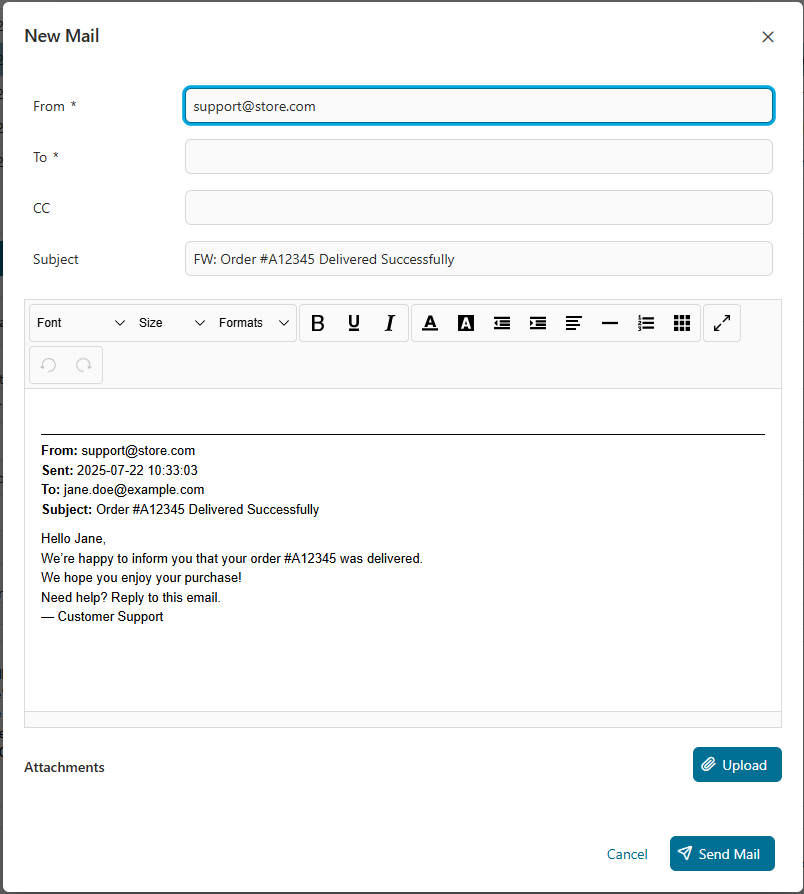
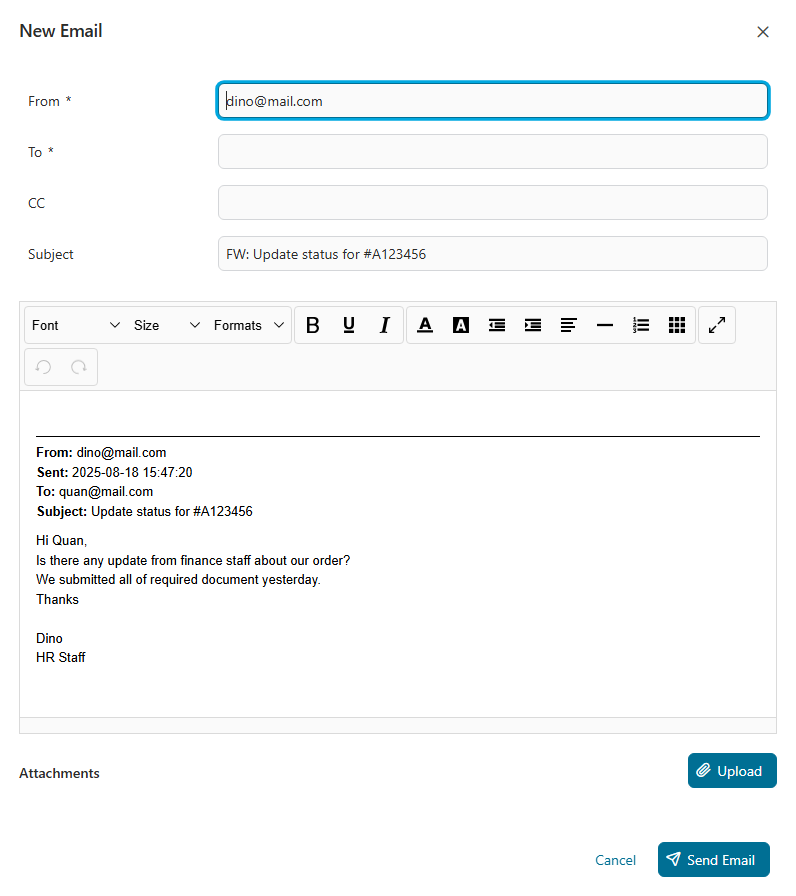
MARP-2694 Review readme

diff --git a/mail-connector-product/README_DE.md b/mail-connector-product/README_DE.md
@@ -1,14 +1,88 @@
-<!--
-Dear developer !     
+# E-Mail-Connector
 
-When you create your very valuable documentation, please be aware that this  is not only published on github. With this file we provide a German translation of the description-tab, i.e. https://market.axonivy.com/adobe-acrobat-connector#tab-description. Please contact us if you need support with the German translation.
--->
+Ein kompaktes E-Mail-Modul zum Senden und Empfangen von Nachrichten, die einem bestimmten Ivy-Case zugeordnet sind. Alle ausgehenden E-Mails werden automatisch mit dem jeweiligen Case verknüpft – so bleibt die gesamte Kommunikation jederzeit nachvollziehbar und zentral im Workflow verfügbar.
 
-# MEIN-PRODUKT-NAME
+Der E-Mail-Connector unterstützt das Versenden, Empfangen, Beantworten, Weiterleiten und erneute Versenden von E-Mails.  
+- Eine Listenansicht zeigt die wichtigsten Informationen wie Datum, Absender, Empfänger und Betreff.  
+- Detailansichten und die Integration in Prozesse sorgen für eine lückenlose Nachverfolgung.  
+- Eingaben werden validiert, Fehler automatisch behandelt und bei Bedarf wird fehlgeschlagenes Versenden erneut versucht; fehlgeschlagene Nachrichten erzeugen eine Admin-Aufgabe.  
+- Inhalt und Anhänge bleiben bei Antworten, Weiterleitungen und erneutem Versand vollständig erhalten.  
 
-Bitte übersetze mindestens das "Description"-Chapter aus https://github.com/axonivy-market/market-product/blob/master/MY-PRODUCT-NAME-product/README.md. Es wird auf unserer Homepage angezeigt.
-Falls Du darüber hinaus auch die anderen Chapter übersetzt, werden auch diese auf der Homepage auf Deutsch angezeigt.
+## Demo
+### E-Mail-Listenansicht
+Übersicht aller E-Mails zu einem Fall.  
 
-<!--
-Die Erläuterungen unter „MEIN-PRODUKT-NAME“ werden z.B. für den  Adobe Konnektor hier angezeigt: https://market.axonivy.com/adobe-acrobat-connector#tab-description wenn ein Nutzer Deutsch als Anzeigesprache ausgewählt hat.
--->
+![Alt text](images/mail-list.png)
+
+### E-Mail-Details
+Anzeige der vollständigen Informationen zu einer ausgewählten Nachricht.  
+
+![Alt text](images/mail-details.png)
+
+### Neue E-Mail
+- Erstellen und Versenden neuer Nachrichten.  
+- Validierungen:  
+  - `From`: Pflichtfeld; gültige Adresse erforderlich.  
+  - `To`: Pflichtfeld; gültige Liste von Adressen erforderlich.  
+  - `CC`: Optional; falls angegeben, gültige Liste von Adressen.  
+
+![Alt text](images/new-mail.png)
+
+### Antwort-E-Mail
+Automatische Übernahme der wichtigsten Daten der ursprünglichen Nachricht:  
+- `Subject`: wird mit `RE:` ergänzt  
+- `Body`: enthält die ursprüngliche Nachricht mit Absender, Datum, Empfänger, Betreff und Text  
+
+![Alt text](images/reply-mail.png)
+
+### E-Mail weiterleiten
+Weiterleitung eingegangener Nachrichten:  
+- `From`: ursprünglicher Absender  
+- `To`: vom Benutzer definiert  
+- `Subject`: wird mit `FW:` ergänzt  
+- `Body`: enthält die gesamte Originalnachricht  
+- Anhänge: werden übernommen  
+
+![Alt text](images/forward.png)
+
+### E-Mail erneut senden
+- Verfügbar nur für Nachrichten mit Status `Sent`  
+- Sendet eine E-Mail erneut mit denselben Daten (Absender, Empfänger, Betreff, Text, Anhänge)  
+- Der Nachrichtenkörper enthält einen Hinweis, dass es sich um eine Kopie handelt  
+
+![Alt text](images/resend-confirmation.png)  
+![Alt text](images/resend-mail.png)
+
+### Fehlerbehandlung
+- Automatischer Wiederholungsmechanismus:  
+  - Anzahl (`mailLoopRepeatNumber`) und Intervall (`mailLoopRepeatDelay`) konfigurierbar  
+- Scheitern alle Versuche, wird eine Admin-Aufgabe erstellt  
+
+### Admin-Aufgaben
+- **Abbrechen:** Aufgabe beenden  
+- **Erneut versuchen:** Versand erneut starten; bei Fehlschlag greift die Wiederholungslogik und ggf. wird eine neue Aufgabe erzeugt  
+
+![Alt text](images/admin-task.png)  
+![Alt text](images/admin-task-detail.png)
+
+## Einrichtung
+1. Maximale Größe des Request-Bodys festlegen  
+
+   Bestimmt, wie groß der zwischengespeicherte/speicherbare Request-Body sein darf, z. B. bei:  
+   - FORM- oder CLIENT-CERT-Authentifizierung  
+   - HTTP/1.1-Upgrade-Requests  
+
+   **Konfiguration:**  
+   - In `ivy.yaml`:  
+     ```yaml
+     Http:
+       MaxPostSize: 2097152
+     ```  
+     👉 Referenz: [Axon Ivy Docs – ivy.yaml](https://developer.axonivy.com/doc/12.0/engine-guide/configuration/files/ivy-yaml.html)
+
+   - In der **nginx**-Konfiguration:  
+     ```nginx
+     client_max_body_size 150M;
+     ```
+
+2. Folgende Projektvariablen setzen:  

diff --git a/mail-connector-product/README.md b/mail-connector-product/README.md
@@ -3,35 +3,35 @@
 A simple mail component designed to send and receive emails related to a specific Ivy case. All sent emails are automatically linked to their corresponding case, providing seamless tracking and management of communication within the workflow.
 
 The Mail Connector allows sending, receiving, replying, forwarding, and resending emails linked to an Ivy case.
-- A mail list view displays key details like date, sender, recipient, and subject.
-- Detailed mail views and process integration ensure seamless communication tracking.
-- It supports field validation, error handling with retry logic, and admin task management for failed mails.
+- A email list view displays key details like date, sender, recipient, and subject.
+- Detailed email views and process integration ensure seamless communication tracking.
+- It supports field validation, error handling with retry logic, and admin task management for failed emails.
 - Original message content and attachments are preserved in replies, forwards, and resends.
 
 ## Demo
-### Mail List View
+### Email List View
 Displays a list of all emails
 
-![Alt text](images/mail-list.png)
+![Alt text](images/email-list.png)
 
 
-### Mail Details View
+### Email Details View
 Full details of a selected email
 
-![Alt text](images/mail-details.png)
+![Alt text](images/email-details.png)
 
 
-### New Mail
+### New Email
 - Allows composing and sending new emails.
 - Field validations:
   - `From`: Required; must be a valid email address.
   - `To`: Required; must be a valid list of email addresses.
   - `CC`: Optional; if provided, must be a valid list of email addresses.
   
- ![Alt text](images/new-mail.png)
+ ![Alt text](images/new-email.png)
 
 
-### Reply Mail
+### Reply Email
 Automatically populates fields based on the original email:
   - `Subject`: Prefixed with `RE:`
   - `Body`:
@@ -46,10 +46,10 @@ Automatically populates fields based on the original email:
     <original body>
     ```
     
-![Alt text](images/reply-mail.png)
+![Alt text](images/reply-email.png)
 
 
-### Forward Mail
+### Forward Email
 Used to forward received messages:
   - `From`: Original sender.
   - `To`: User-defined.
@@ -59,8 +59,8 @@ Used to forward received messages:
   
 ![Alt text](images/forward.png)
 
-### Resend Mail
-- Available only for mails in `Sent` state.
+### Resend Email
+- Available only for emails in `Sent` state.
 - Used to resend a previously sent email:
   - `From`, `To`, `Subject`: Same as the original.
   - `Body`:
@@ -74,7 +74,7 @@ Used to forward received messages:
   
 ![Alt text](images/resend-confirmation.png)
 
-![Alt text](images/resend-mail.png)
+![Alt text](images/resend-email.png)
 
 
 ### Error Handling
